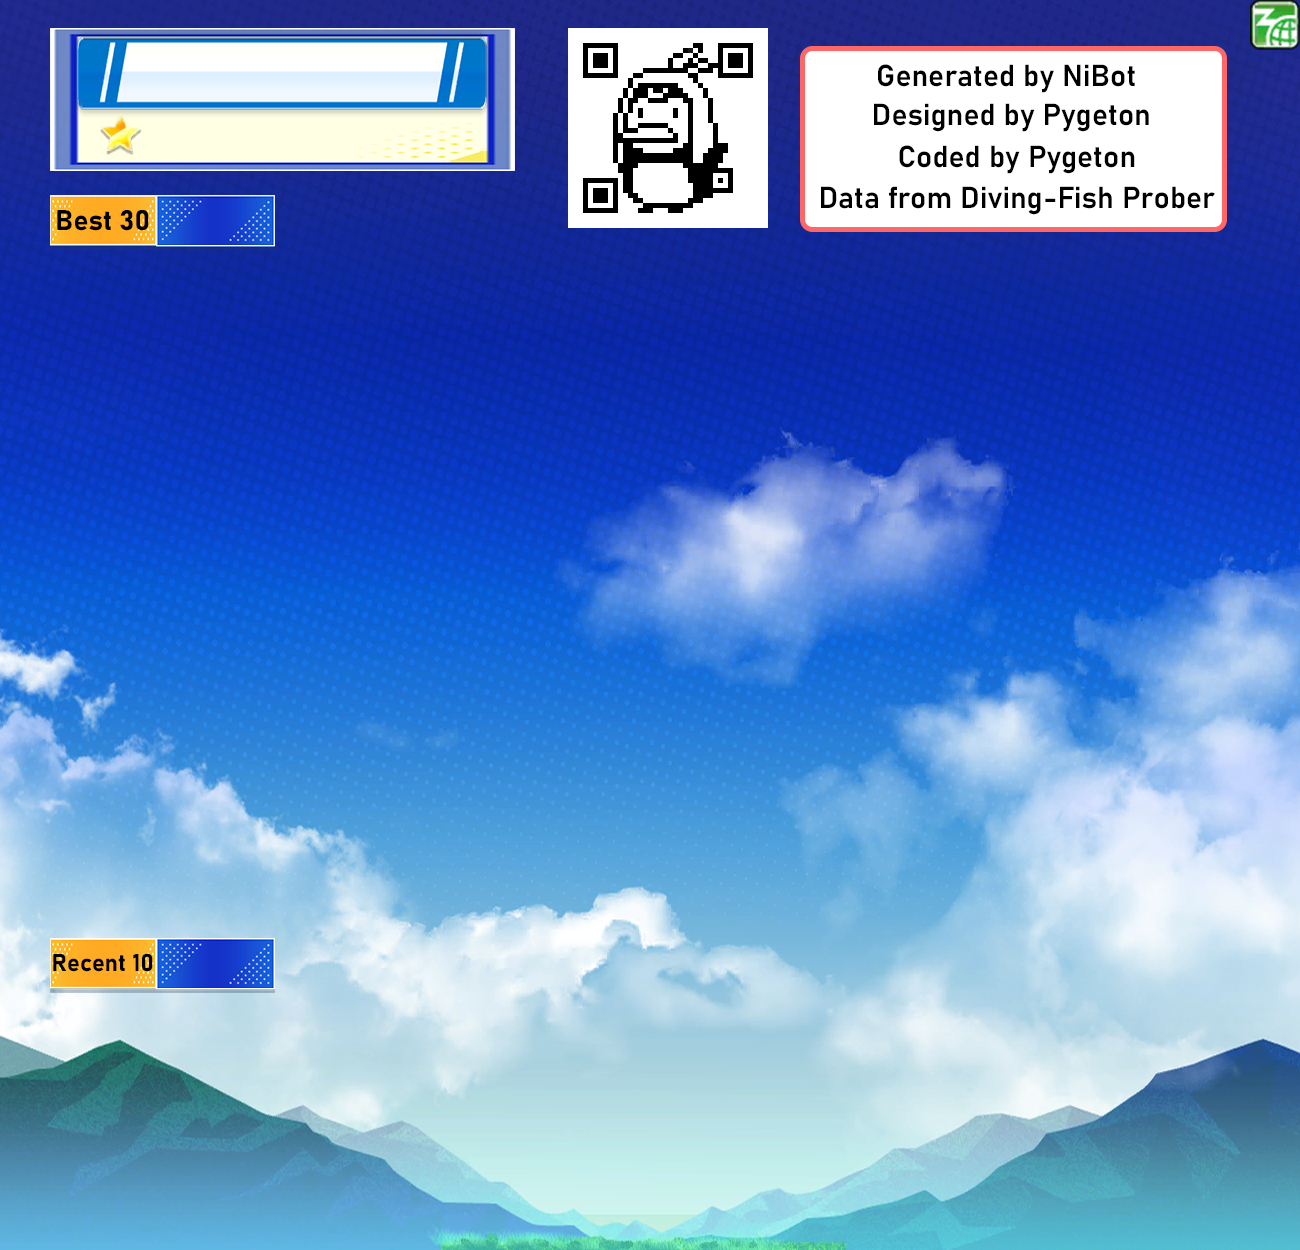
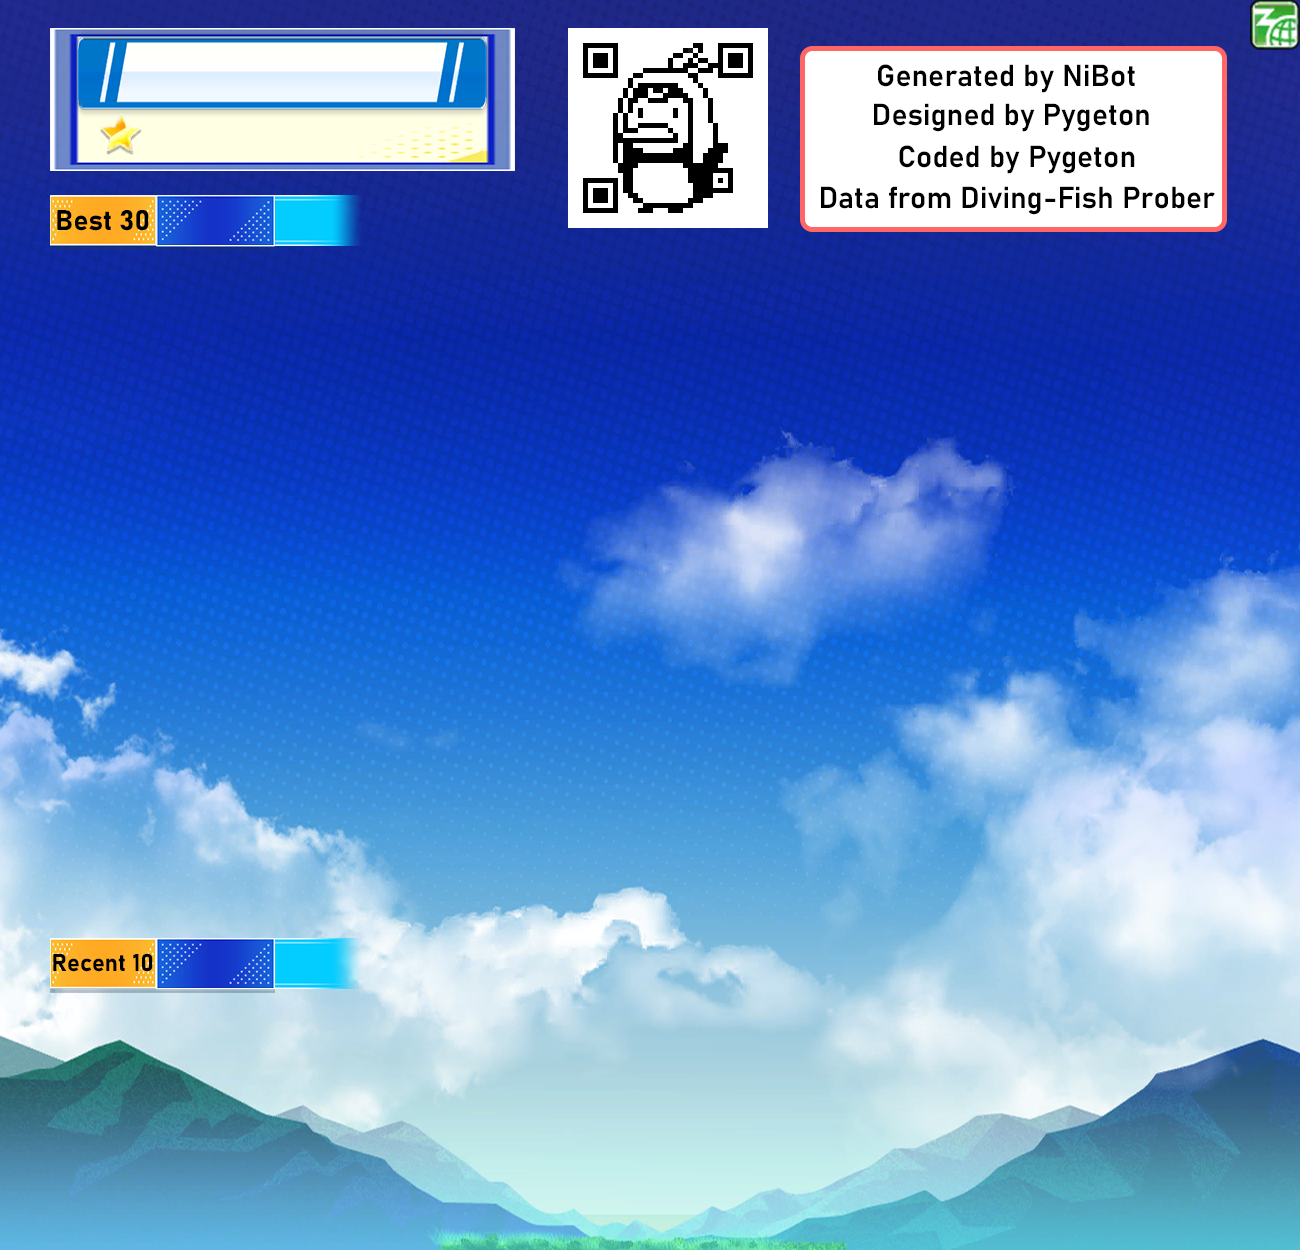
1.1.2-release 改进中二b30算法，支持精确到小数点后四位

Changed region(s): [[0.1846, 0.7488, 0.2769, 0.8112], [0.1846, 0.156, 0.2769, 0.2184]]

diff --git a/src/main/java/com/pygeton/nibot/graphic/ChunithmImageGenerator.java b/src/main/java/com/pygeton/nibot/graphic/ChunithmImageGenerator.java
@@ -11,6 +11,7 @@ import java.io.File;
 import java.io.IOException;
 import java.math.BigDecimal;
 import java.math.RoundingMode;
+import java.text.DecimalFormat;
 import java.util.List;
 import java.util.Objects;
 
@@ -65,6 +66,13 @@ public class ChunithmImageGenerator {
             List<ChunithmChartInfo> b30List = best30.getB30List();
             List<ChunithmChartInfo> r10List = best30.getR10List();
             double rating = best30.getRating();
+            refreshRating(b30List);
+            refreshRating(r10List);
+            b30List.sort((o1, o2) -> o2.getRaFine().compareTo(o1.getRaFine()));
+            r10List.sort((o1, o2) -> o2.getRaFine().compareTo(o1.getRaFine()));
+            for (ChunithmChartInfo chartInfo : b30List){
+                System.out.println(chartInfo.getRaFine());
+            }
 
             BufferedImage template = ImageIO.read(getResource("chuni/template/b30.png"));
             Graphics2D graphics = template.createGraphics();
@@ -97,7 +105,11 @@ public class ChunithmImageGenerator {
             }
             //绘制B30
             double b30Rating = drawChartInfo(b30List,graphics,30,262);
-            String b30RatingStr = String.format("%.2f",b30Rating);
+            DecimalFormat b30Mantissa = new DecimalFormat("0.0000");
+            graphics.setColor(Color.WHITE);
+            graphics.setFont(new Font("Bahnschrift",Font.PLAIN,32));
+            graphics.drawString(b30Mantissa.format(b30Rating % 1).substring(4),290,233);
+            String b30RatingStr = String.format("%.4f",b30Rating);
             if(b30RatingStr.charAt(1) == '.'){
                 b30RatingStr = "0" + b30RatingStr;
             }
@@ -115,7 +127,11 @@ public class ChunithmImageGenerator {
             }
             //绘制R10
             double r10Rating = drawChartInfo(r10List,graphics,10,1005);
-            String r10RatingStr = String.format("%.2f",r10Rating);
+            DecimalFormat r10Mantissa = new DecimalFormat("0.0000");
+            graphics.setColor(Color.WHITE);
+            graphics.setFont(new Font("Bahnschrift",Font.PLAIN,32));
+            graphics.drawString(r10Mantissa.format(r10Rating % 1).substring(4),290,975);
+            String r10RatingStr = String.format("%.4f",r10Rating);
             if(r10RatingStr.charAt(1) == '.'){
                 r10RatingStr = "0" + r10RatingStr;
             }
@@ -235,14 +251,14 @@ public class ChunithmImageGenerator {
     }
 
     private double drawChartInfo(List<ChunithmChartInfo> list,Graphics2D graphics,int max,int y){
-        double rating = 0;
+        BigDecimal ratingSum = BigDecimal.ZERO;
         try {
             int k = 0;
             int x = 50;
             while (k < max){
                 if (k < list.size()){
                     ChunithmChartInfo chartInfo = list.get(k);
-                    rating += chartInfo.getRa();
+                    ratingSum = ratingSum.add(BigDecimal.valueOf(chartInfo.getRaFine()));
                     graphics.drawImage(generateChunithmChartImage(chartInfo,++k).getScaledInstance(224,84,Image.SCALE_SMOOTH),x,y,null);
                     switch (chartInfo.getFc()){
                         case "fullcombo" -> graphics.drawImage(FC_ICON,x + 85,y + 84,null);
@@ -264,7 +280,9 @@ public class ChunithmImageGenerator {
         catch (IOException e){
             e.printStackTrace();
         }
-        return rating / max;
+        System.out.println(ratingSum);
+        //System.out.println(ratingSum.divide(BigDecimal.valueOf(max),4,RoundingMode.DOWN).doubleValue());
+        return ratingSum.divide(BigDecimal.valueOf(max),4,RoundingMode.HALF_UP).doubleValue();
     }
 
     private BufferedImage generateChunithmChartImage(ChunithmChartInfo chartInfo,int index) throws IOException{
@@ -291,7 +309,7 @@ public class ChunithmImageGenerator {
             graphics.setFont(new Font("Bahnschrift",Font.PLAIN,34));
             graphics.drawString(chartInfo.getScore().toString(),115,70);
             graphics.setFont(new Font("Bahnschrift",Font.PLAIN,24));
-            graphics.drawString("#" + index + " | " + chartInfo.getDs().toString() + " -> " + String.format("%.2f",chartInfo.getRa()),115,100);
+            graphics.drawString("#" + index + " | " + chartInfo.getDs().toString() + " -> " + String.format("%.2f",chartInfo.getRaFine()),115,100);
             graphics.dispose();
             return template;
         }
@@ -310,5 +328,37 @@ public class ChunithmImageGenerator {
         graphics.setFont(new Font("Bahnschrift",Font.PLAIN,24));
         graphics.drawString("#" + index + " | --",115,100);
         return template;
+    }
+
+    private void refreshRating(List<ChunithmChartInfo> list){
+        for (ChunithmChartInfo chartInfo : list){
+            chartInfo.setRaFine(calculateRating(chartInfo.getScore(),chartInfo.getDs(),chartInfo.getRa()));
+        }
+    }
+
+    private Double calculateRating(int score, float ds, double rating) {
+        BigDecimal raFine;
+        BigDecimal scoreBD = new BigDecimal(Integer.toString(score));
+        BigDecimal dsBD = new BigDecimal(Float.toString(ds));
+        BigDecimal ratingBD = new BigDecimal(Double.toString(rating));
+        BigDecimal base = new BigDecimal("975000.0");
+        BigDecimal factor = new BigDecimal("0.1");
+
+        if (score < 975000) {
+            raFine = ratingBD;
+            return raFine.setScale(2, RoundingMode.DOWN).doubleValue();
+        } else if (score < 1000000) {
+            ratingBD = dsBD.add((scoreBD.subtract(base)).divide(new BigDecimal("2500")).multiply(factor));
+        } else if (score < 1005000) {
+            ratingBD = dsBD.add(new BigDecimal("1").add((scoreBD.subtract(new BigDecimal("1000000.0"))).divide(new BigDecimal("1000")).multiply(factor)));
+        } else if (score < 1007500) {
+            ratingBD = dsBD.add(new BigDecimal("1.5").add((scoreBD.subtract(new BigDecimal("1005000.0"))).divide(new BigDecimal("500")).multiply(factor)));
+        } else if (score < 1009000) {
+            ratingBD = dsBD.add(new BigDecimal("2").add((scoreBD.subtract(new BigDecimal("1007500.0"))).divide(new BigDecimal("1000")).multiply(factor)));
+        } else {
+            ratingBD = dsBD.add(new BigDecimal("2.15"));
+        }
+        raFine = ratingBD;
+        return raFine.setScale(2, RoundingMode.DOWN).doubleValue();
     }
 }

diff --git a/src/main/java/com/pygeton/nibot/communication/function/Mahjong.java b/src/main/java/com/pygeton/nibot/communication/function/Mahjong.java
@@ -89,7 +89,7 @@ public class Mahjong extends Function implements IMessageEvent {
     }
 
     private void bind(Long id,String name){
-        String url = "https://rate.000.mk/chart/?name=" + name;
+        String url = "https://rate.r-mj.com/chart/?name=" + name;
         WebDriver driver = initDriver(url,Mode.BIND);
         boolean alert = alertCheck(driver);
         if(!alert){
@@ -105,7 +105,7 @@ public class Mahjong extends Function implements IMessageEvent {
     }
 
     private void bind(Long id,String name,Integer area){
-        String url = "https://rate.000.mk/chart/?name=" + name + "&area=" + area;
+        String url = "https://rate.r-mj.com/chart/?name=" + name + "&area=" + area;
         WebDriver driver = initDriver(url,Mode.BIND);
         boolean alert = alertCheck(driver);
         if(!alert){
@@ -128,7 +128,7 @@ public class Mahjong extends Function implements IMessageEvent {
             }
             else {
                 data = mahjongDataService.getData(id);
-                String url = "https://rate.000.mk/chart/?name=" + data.getName();
+                String url = "https://rate.r-mj.com/chart/?name=" + data.getName();
                 if(data.getArea() != null){
                     url += "&area=" + data.getArea();
                 }
@@ -146,6 +146,7 @@ public class Mahjong extends Function implements IMessageEvent {
             }
         }
         catch (Exception e){
+            e.printStackTrace();
             sendMsgParams.addTextMessageSegment("服务器发生错误，请再试一次喵>_<");
         }
     }

diff --git a/src/main/java/com/pygeton/nibot/communication/function/Help.java b/src/main/java/com/pygeton/nibot/communication/function/Help.java
@@ -450,7 +450,7 @@ public class Help extends Function implements IMessageEvent {
                                 return """
                                     使用方法：
                                     /chu b30
-                                    可以生成一张带有你的b30+r10数据的图片，前提是你的qq号已经绑定到水鱼查分器上。如未绑定，可以前往https://www.diving-fish.com/maimaidx/prober进行绑定。
+                                    可以生成一张带有你的b30+r10数据的图片，b30和r10的rating数值后的两位数字代表精确到四位小数的后两位，前提是你的qq号已经绑定到水鱼查分器上。如未绑定，可以前往https://www.diving-fish.com/maimaidx/prober进行绑定。
                                     """;
                             }
                             case 2 -> {

diff --git a/src/main/java/com/pygeton/nibot/communication/entity/chuni/ChunithmChartInfo.java b/src/main/java/com/pygeton/nibot/communication/entity/chuni/ChunithmChartInfo.java
@@ -4,6 +4,8 @@ import lombok.AllArgsConstructor;
 import lombok.Data;
 import lombok.NoArgsConstructor;
 
+import java.math.BigDecimal;
+
 @Data
 @NoArgsConstructor
 @AllArgsConstructor
@@ -19,5 +21,6 @@ public class ChunithmChartInfo {
     private Float ds;
     private Integer score;
     private Float ra;
+    private Double raFine;//精确度更高的ra值
     private String fc;//FC\AJ完成情况
 }
